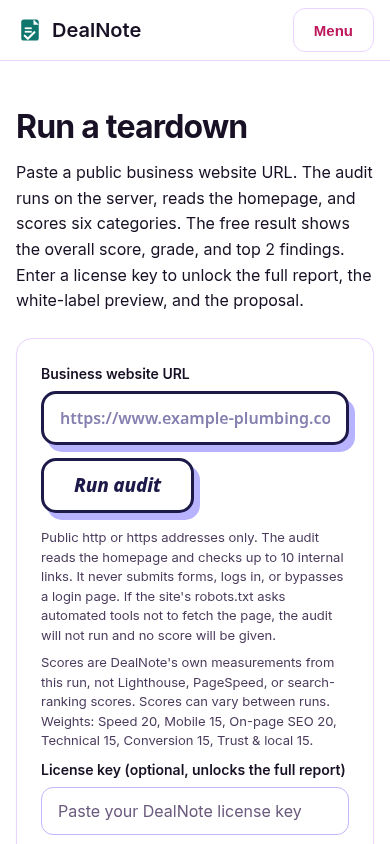
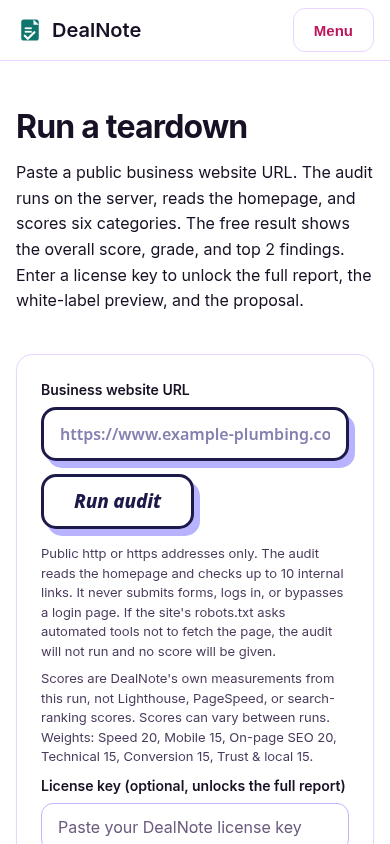
Neon redesign: hero submit button keeps one line in the pill

Changed region(s): [[0.0923, 0.4313, 0.9231, 1.0]]

diff --git a/app/globals.css b/app/globals.css
@@ -252,6 +252,9 @@ td { padding: 12px; border-bottom: 1px solid var(--border); vertical-align: top;
 .hero-grid { display: grid; grid-template-columns: 1fr 1fr; gap: 48px; align-items: start; }
 @media (max-width: 860px) { .hero-grid { grid-template-columns: 1fr; gap: 32px; } }
 @media (max-width: 640px) { .pricing-grid { grid-template-columns: 1fr !important; } }
+/* Hero audit pill: the Sakuga submit button must not shrink and wrap to
+   three lines inside the flex-nowrap pill. */
+.hero-submit { flex-shrink: 0; white-space: nowrap; }
 /* Audit page on mobile (Neon P2-3): when a result exists, the score card
    moves above the URL form so 45/100 is readable above the fold. The
    DOM order is unchanged; only the visual order moves on small screens. */

diff --git a/app/page.tsx b/app/page.tsx
@@ -32,7 +32,7 @@ export default function Home() {
                   placeholder="https://www.example-plumbing.com"
                   style={{ flex: "1 1 auto", border: "none", minWidth: 0 }}
                 />
-                <SakugaButton type="submit">
+                <SakugaButton type="submit" className="hero-submit">
                   Run a free audit
                 </SakugaButton>
               </form>
